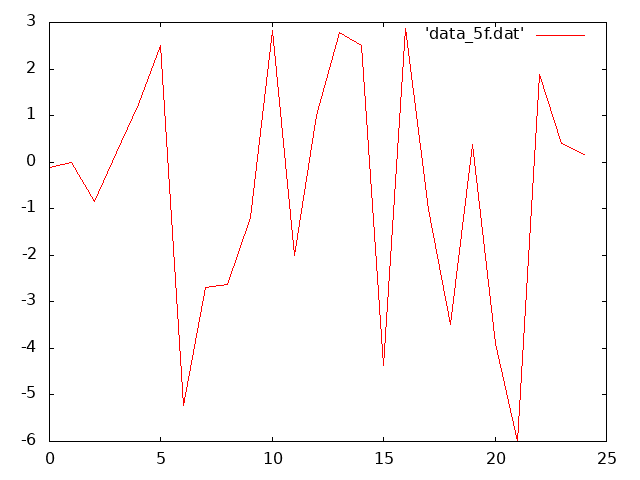
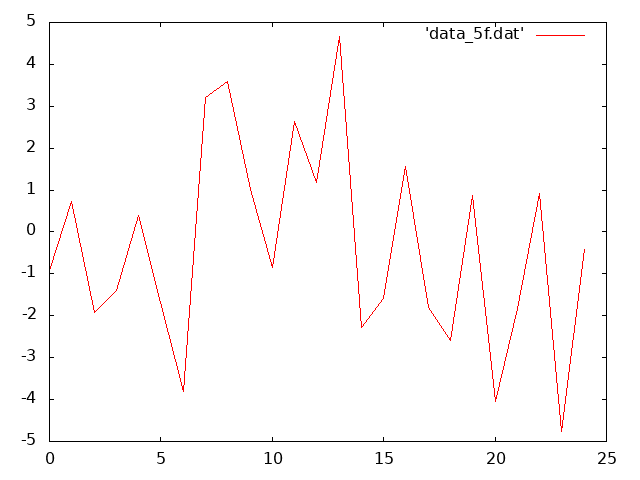
Se cambia el teq de 50 a 110 en el archivo 5f.cpp

diff --git a/1/5f.cpp b/1/5f.cpp
@@ -144,7 +144,7 @@ int main(void){
   double t,dt=1.0e-3;
   double m0=1,R0=2.5;
   int i,j;
-  double teq = 50;
+  double teq = 110;
   //Moleculas
   double dx=Lx/(Nx+1),dy=Ly/(Ny+1),x0,y0, theta;
   double V0=sqrt(2*KT/m0);
